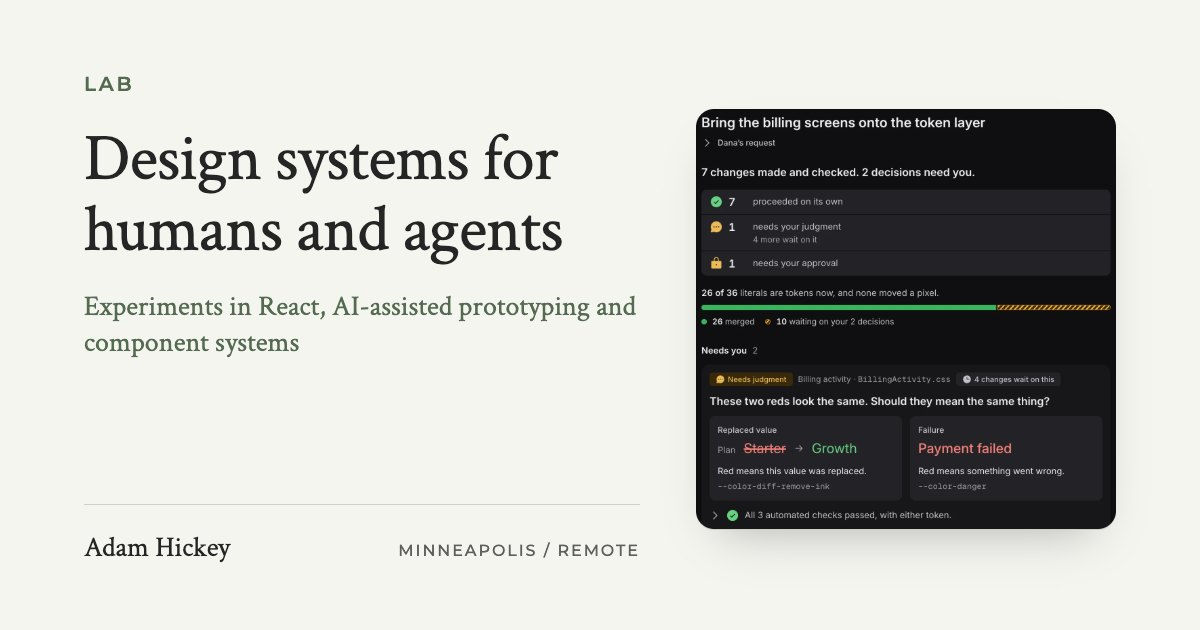
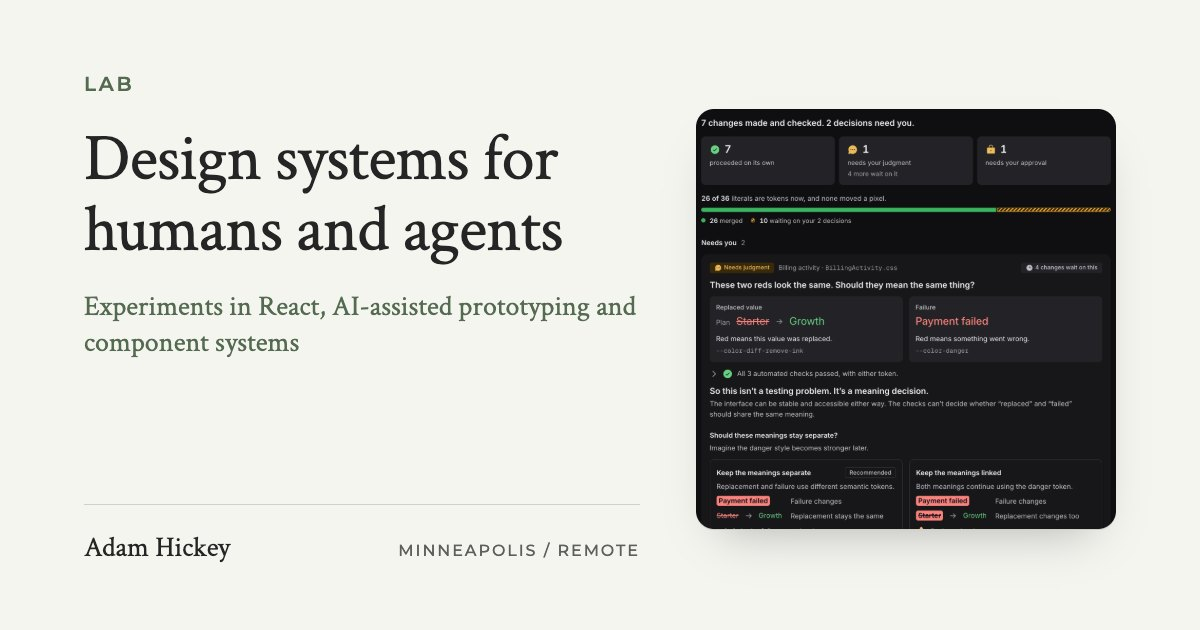
The lab's share card shows the app as the case study's does, a square of the run's main column (#470)
og.mjs lab took the phone-layout square of the app, agent-review-share.
Adam asked for the app capture the case study's card took in #468, so
both now use lab-cards.mjs agent-review-og: the deployed app at 1440,
dark, a square of the run's main column from just above the account's
lead. img/og/lab.jpg is re-rendered and lab/index.html's og:image moves
to ?v=13. agent-review-share stays in the tree, used by no card now.

The fast five pass.

Changed region(s): [[0.5858, 0.181, 0.925, 0.8444], [0.8633, 0.4222, 0.8942, 0.4524]]

diff --git a/lab/index.html b/lab/index.html
@@ -19,7 +19,7 @@
   <meta property="og:url" content="https://adamhickey.com/lab/index.html" />
   <meta property="og:title" content="Design Systems for Humans and Agents | Adam Hickey" />
   <meta property="og:description" content="Experiments in React, AI-assisted prototyping, component systems and interfaces where design decisions survive into code. Agent Review, a prototype for knowing when a coding agent should proceed, ask a person or wait for approval, and two working prototypes of operational software on synthetic data." />
-  <meta property="og:image" content="https://adamhickey.com/img/og/lab.jpg?v=12" />
+  <meta property="og:image" content="https://adamhickey.com/img/og/lab.jpg?v=13" />
   <meta property="og:image:width" content="1200" />
   <meta property="og:image:height" content="630" />
   <meta name="twitter:card" content="summary_large_image" />
